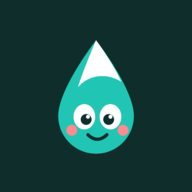
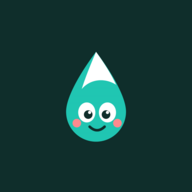
fix(pwa): pointe de la goutte encore rognee -> marge de securite renforcee
Diagnostic factuel : le PNG precedent n'etait PAS zoome par la conversion
(512x512 complet, couleurs exactes #0f2e2b + turquoise, marge haute reelle
21%). Le rognage venait du LAUNCHER (Xiaomi/MIUI zoome les icones maskable
et mange une partie de la zone de securite).

Correction : marge de securite portee de ~21% a ~27% (goutte a 47% de la
hauteur, tres centree). Verifie par simulation masque cercle ET zoom 140% :
la pointe reste entierement visible dans les deux cas.

- icon.svg (master) : goutte translate(142,123) scale(1.9).
- icon-192.png / icon-512.png regeneres en PNG 8-bit (evite les soucis de
  PNG 16-bit sur certains launchers).
- sw.js : cache v4 -> v5 pour forcer la mise a jour des icones en cache.

Rappel : sur le telephone, il faut REINSTALLER/rafraichir la PWA pour que
l'OS remplace l'icone mise en cache.

Changed region(s): [[0.2812, 0.2188, 0.7188, 0.8125]]

diff --git a/sw.js b/sw.js
@@ -1,5 +1,5 @@
 /* Sunami Service Worker — cache le shell pour usage hors-ligne */
-const CACHE = 'sunami-v4';
+const CACHE = 'sunami-v5';
 const SHELL = [
   '/',
   '/app',
